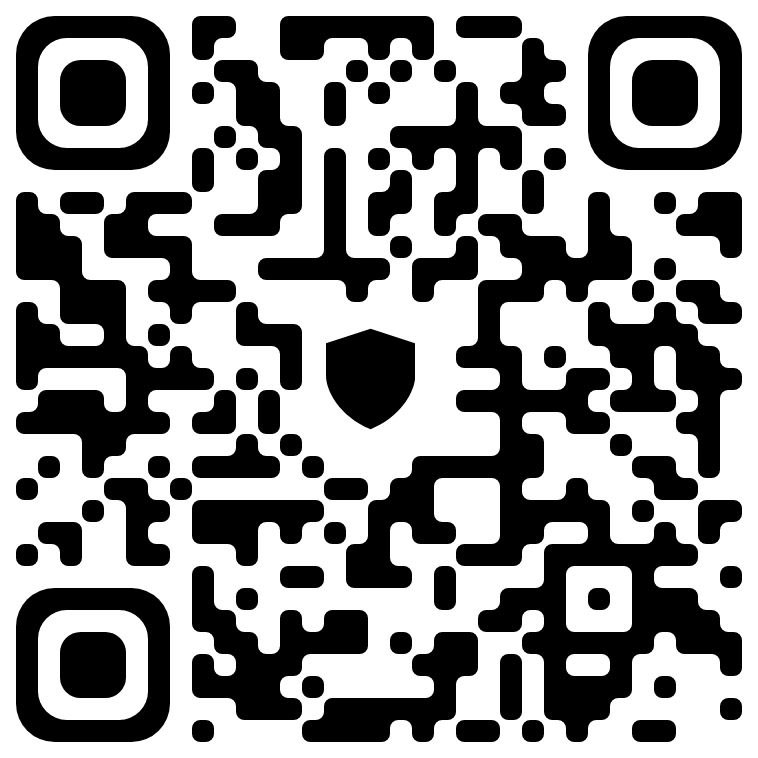
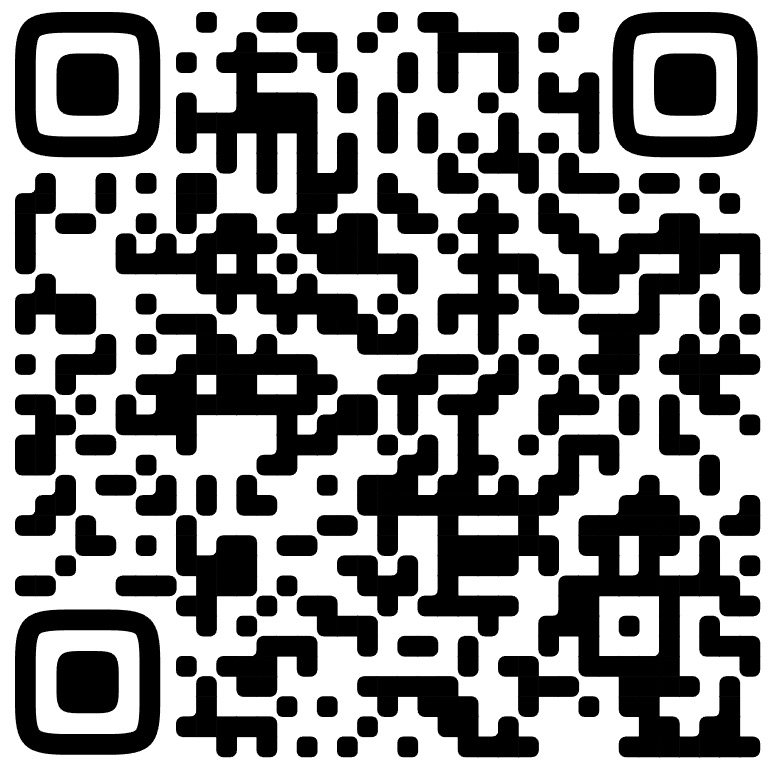
ton address update
updated TON address and QR due to migration to v4r2

diff --git a/services/funds/currency.ts b/services/funds/currency.ts
@@ -64,7 +64,7 @@ export const Coins: CoinDefinition[] = [
     {
         fullname: "Ton",
         shortname: "ton",
-        address: "EQDWp5mlGr9oNR_LGxvT1N4MEIqboRuCE35SZI2NTsH8QeO1",
+        address: "UQDWp5mlGr9oNR_LGxvT1N4MEIqboRuCE35SZI2NTsH8Qb5w",
         network: "TON",
         qrfile: "ton.jpg",
         explorer: "https://tonscan.com/",
